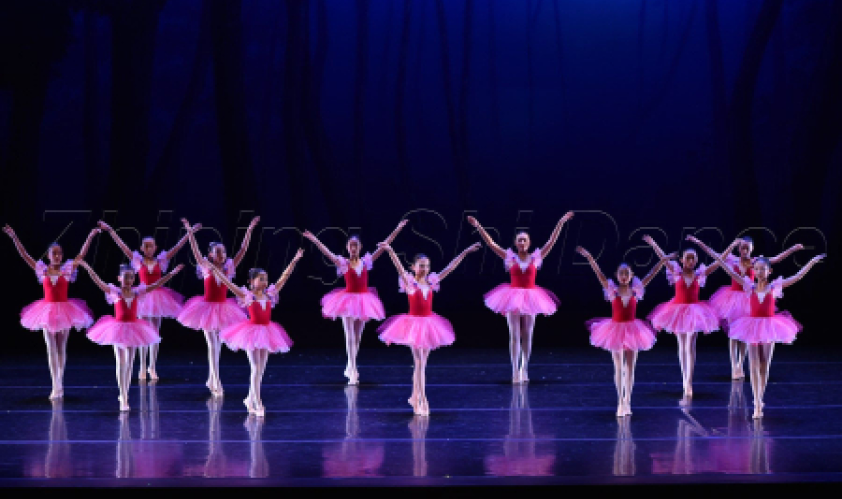
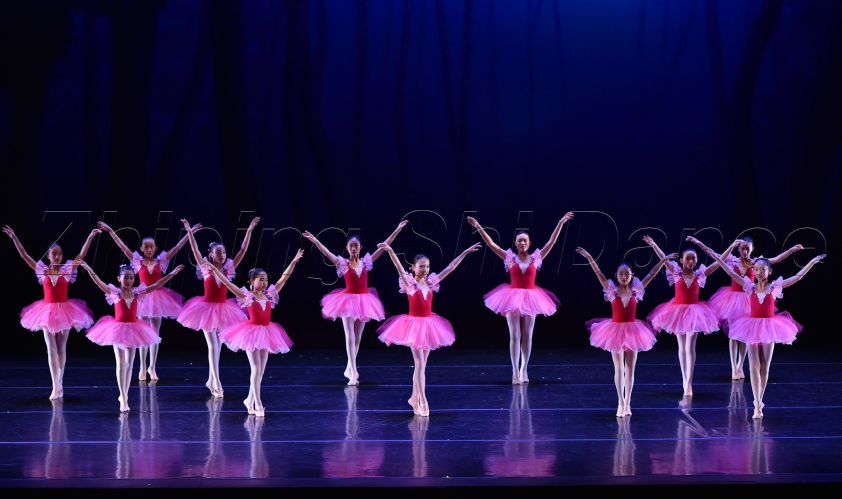
updated slideshow images

diff --git a/index.html b/index.html
@@ -65,7 +65,7 @@
 
                 <div class="mySlides fade">
                     <div class="numbertext"></div>
-                    <img src="src/caro_img3.png" style="width:100%">
+                    <img src="src/caro_img3.jpg" style="width:100%">
                     <div class="text"></div>
                 </div>
 
